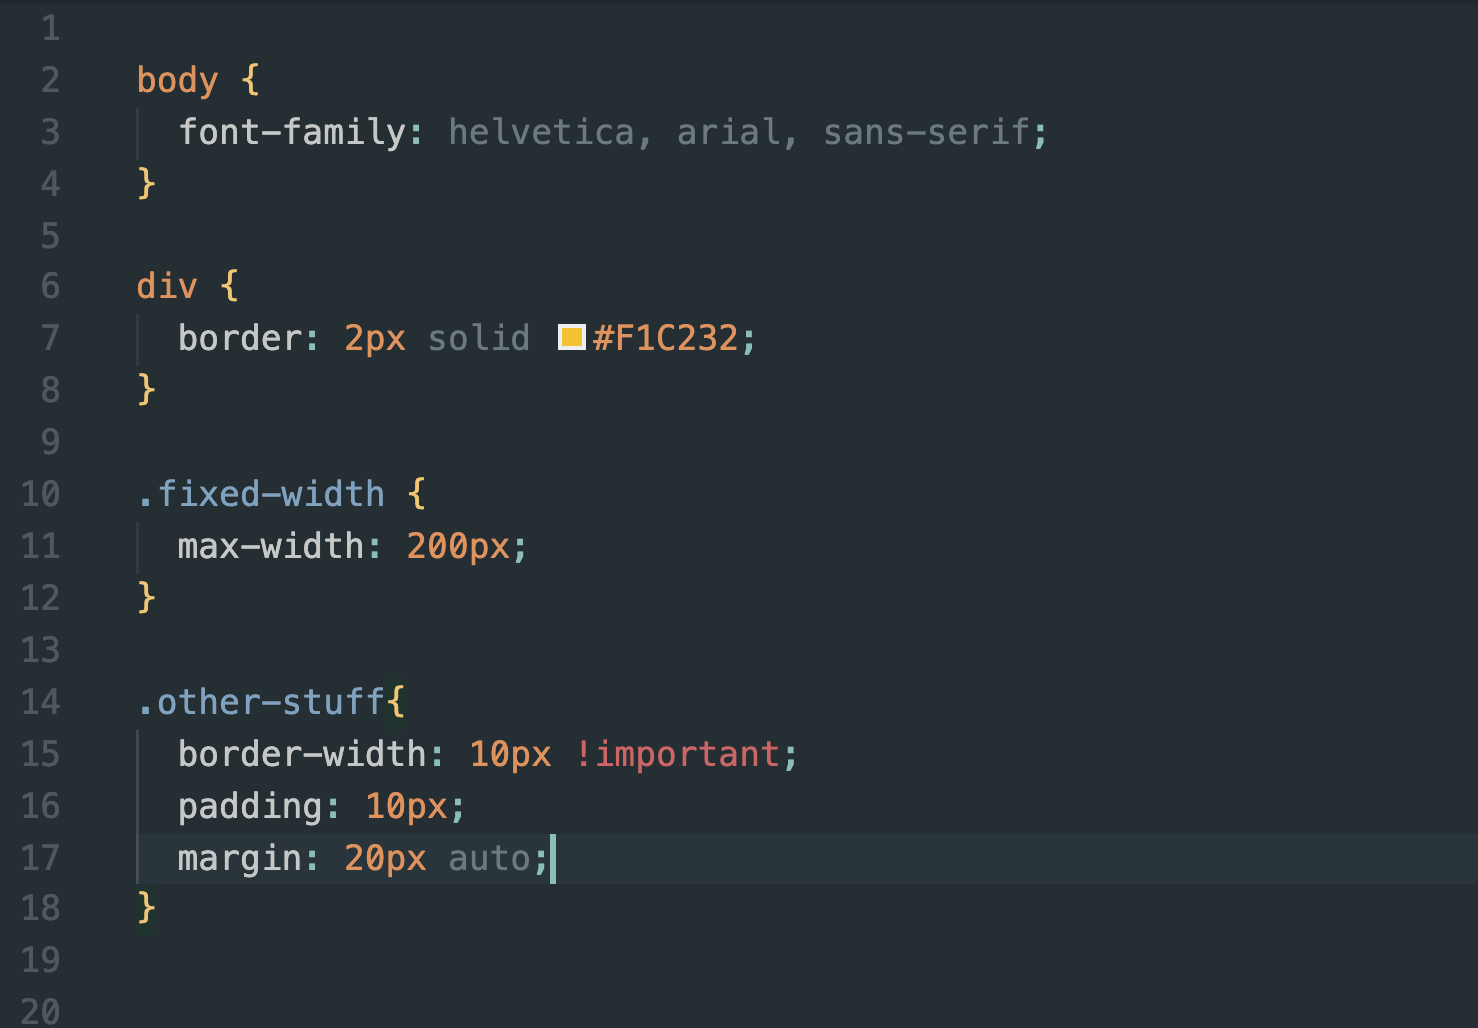
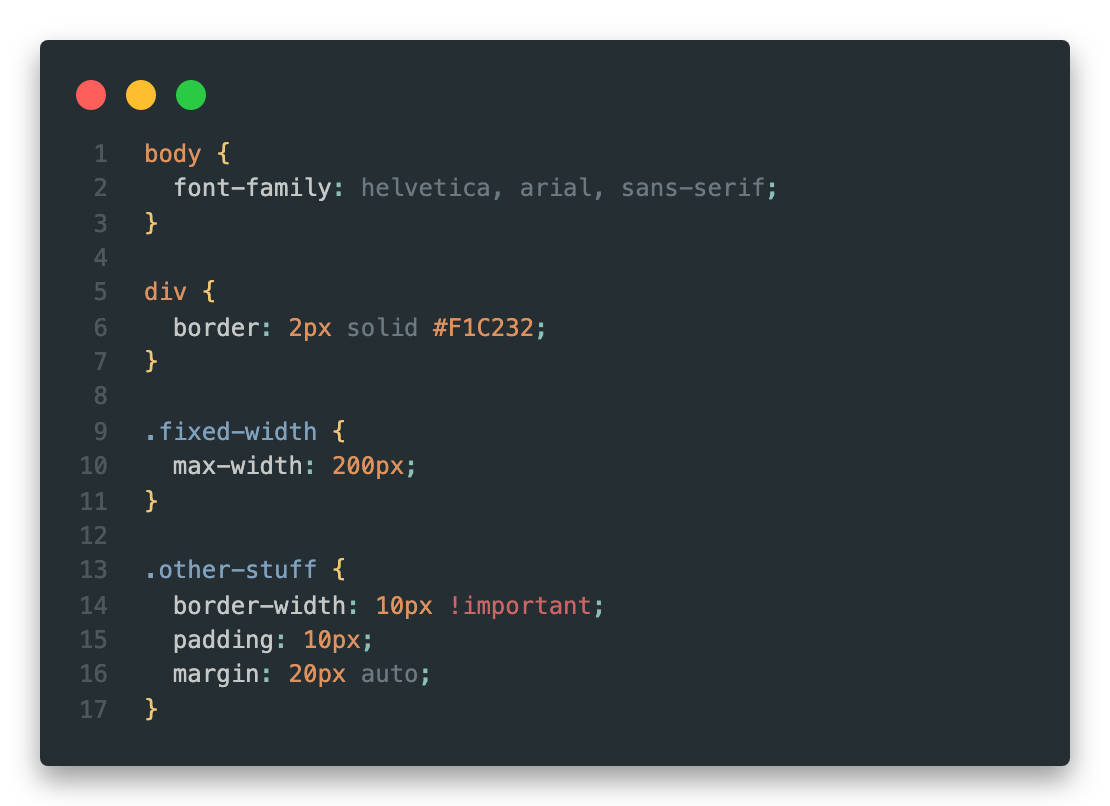
Updated screenshots

diff --git a/screenshot-code/HTML.html b/screenshot-code/HTML.html
@@ -1,0 +1,16 @@
+<html lang="en">
+<head>
+  <meta charset="UTF-8">
+  <meta name="viewport" content="width=device-width, initial-scale=1.0">
+  <meta http-equiv="X-UA-Compatible" content="ie=edge">
+  <title>Document</title>
+  <script src="app.js"></script>
+</head>
+<body>
+  <div class="container">
+    <!-- header -->
+    <h1>Welcome to my page!</h1>
+    <p>Lorem ipsum dolor sit amet, consectetur adipiscing.</p>
+  </div>
+</body>
+</html>

diff --git a/screenshot-code/JavaScript.js b/screenshot-code/JavaScript.js
@@ -1,0 +1,17 @@
+let people = [
+  { name: 'John Smith', age: 32 },
+  { name: 'Steve Jones', age: 27 }
+]
+
+function sayHelloToPeople() {
+  people.forEach(person => {
+    if (person.age >= 30) {
+      alert('Hi ' + person.name + ' you\'re over 30 years old!')
+    }
+    else {
+      alert('Hi ' + person.name + ' you\'re under 30 years old!')
+    }
+  })
+}
+
+sayHelloToPeople()

diff --git a/screenshot-code/CSS.css b/screenshot-code/CSS.css
@@ -1,0 +1,17 @@
+body {
+  font-family: helvetica, arial, sans-serif;
+}
+
+div {
+  border: 2px solid #F1C232;
+}
+
+.fixed-width {
+  max-width: 200px;
+}
+
+.other-stuff {
+  border-width: 10px !important;
+  padding: 10px;
+  margin: 20px auto;
+}

diff --git a/CHANGELOG.md b/CHANGELOG.md
@@ -5,6 +5,7 @@ All notable changes to the **Make Apps Theme** extension will be documented in t
 ### **1.0.1** - Dec 10 2019
 
 - Fixed title bar and status bar background colors
+- Updated screenshots
 
 ### **1.0.0** - Dec 3 2019
 
